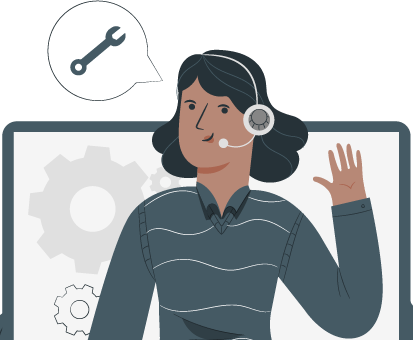
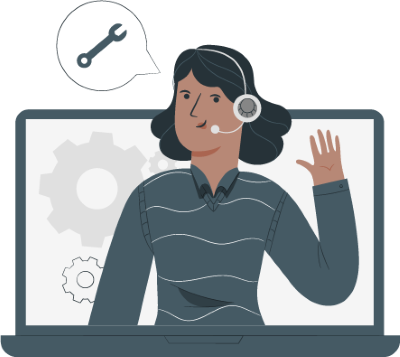
Alteração page suporte

diff --git a/index.html b/index.html
@@ -25,7 +25,8 @@
         <nav class="navbar navbar-expand-md navbar-dark bgdark">
             <div class="container col-10">
                 <a href="index.html" class="navbar-brand"><img src="img/logo.png" alt="GoodConnection" class="logotipo"></a>
-                <button class="navbar-toggler" data-toggle="collapse" data-target='#nav-principal' aria-expanded="false" aria-label="Toggle navigation">
+                <button class="navbar-toggler" data-toggle="collapse" data-target='#nav-principal' aria-expanded="false"
+                    aria-label="Toggle navigation">
                     <span class="navbar-toggler-icon"></span>
                 </button>
                 <div class="collapse navbar-collapse text-right" style="font-weight: 600;;" id="nav-principal">
@@ -48,7 +49,7 @@
         </nav>
     </header>
     <!-- Inicio - Banner -->
-    <section class="banner mx-auto">
+    <section class="banner mx-auto mb-5">
         <img src="img/bannernet.png" alt="banner good conection" class="img-fluid w-100 bannerimg">
     </section>
     <!-- Sobre a Empresa -->
@@ -172,10 +173,29 @@
                 <!-- SUPORTE -->
                 <section class="suporte">
                     <h1 id="titulo_" class="text-center text-uppercase pt-3 " style="color:#1a3b66;">suporte</h1>
-                    <div class="container col-12">
-                        <div class="row d-flex justify-content-center">
-                            <div class="col-lg-5 text-center ">
-                                <img src="img/Suporte.png " alt="Suporte GoodConnection" class="img-fluid mx-auto d-block mb-3 ">
+                    <div class="container col-10">
+                        <div class="row">
+                            <div class="col-lg-6 text-center mx-auto">
+                                <img src="img/suporte.png" alt="Suporte GoodConnection" class="img-fluid">
+                            </div>
+                            <div class="col-lg-6 d-flex align-items-center mt-4 mt-lg-5">
+                                <div class="div text-center mt-lg-5 mx-auto">
+                                    <h2 class="titulo_"><i class="far fa-check-circle text-success"></i> Suporte Online 24h </h2>
+                                    <h2 class="titulo_"><i class="far fa-check-circle text-success"></i> Chat & Whatsapp<span style="color: white;">...</span></h2>
+                                    <h2 class="titulo_"><i class="far fa-check-circle text-success"></i> Suporte Técnico<span style="color: white;">..... </span></h2>
+                                    <h2 class="titulo_"><i class="far fa-check-circle text-success"></i> Atedimento Rápido </h2>
+                                  
+
+                                </div>
+                            </div>
+                        </div>
+
+
+
+
+                        <!-- <div class="row ">
+                            <div class="col-lg-6 text-center ">
+                                <img src="img/Suporte.png " alt="Suporte GoodConnection" class="img-fluid mx-auto d-block mb-3">
                                 <h5 class="titulo_">Serviço 24h <i class="far fa-check-circle text-success text-right"></i></h5>
                                 <h5 class="titulo_">Suporte Online <i class="far fa-check-circle text-success"></i></h5>
                                 <h5 class="titulo_">Chat & Whatsapp <i class="far fa-check-circle text-success"></i></h5>
@@ -183,14 +203,15 @@
                                 </h5>
                                 <hr>
                             </div>
-                            <div class="col-lg-5  text-center ">
+                            <div class="col-lg-6  text-center ">
                                 <img src="img/Suporte2.png" alt="Suporte GoodConnection" class="img-fluid mx-auto d-block mb-3 ">
-                                <h5 class="titulo_">Suporte Técnico <i class="far fa-check-circle text-success text-right"></i></h5>
+                                <h5 class="titulo_">Suporte Técnico <i class="far fa-check-circle text-success text-right"></i>
+                                </h5>
                                 <h5 class="titulo_">Rápido & Eficiente <i class="far fa-check-circle text-success"></i></h5>
                                 <h5 class="titulo_">Melhores Técnicos <i class="far fa-check-circle text-success"></i></h5>
                                 <h5 class="titulo_">Qualidade e Segurança <i class="far fa-check-circle text-success"></i></h5>
                             </div>
-                        </div>
+                        </div> -->
                     </div>
                 </section>
                 <!-- ANCORA CONTATO -->
@@ -216,7 +237,7 @@
                                             placeholder="Digite seu nome aqui" required>
                                     </div>
                                     <div class="form-group">
-                                        <label for="exampleInputEmail1" class="font-weight-bold">Endereço de email</label>
+                                        <label for="exampleInputEmail1" class="font-weight-bold">Endereço de email</label>              
                                         <input type="email" class="form-control" id="exampleInputEmail1"
                                             aria-describedby="emailHelp" placeholder="Digite seu email aqui" required>
                                     </div>
@@ -234,7 +255,7 @@
                                     <div class="form-group">
                                         <label for="exampleMensagem" class="font-weight-bold">Escreva sua mensagem</label>
                                         <br>
-                                        <textarea name="Mensagem" id="exampleMensagem" cols="60" rows="5"
+                                        <textarea name="Mensagem" id="exampleMensagem" cols="35" rows="5"
                                             placeholder="Digite sua mensagem aqui" required></textarea>
                                     </div>
 
@@ -245,9 +266,9 @@
                                 <h1 class="titulo_white pl-4 ">Localização</h1>
                                 <p class="pl-4">Endereço:</p>
                                 <p class="pl-4">Aberto das 8h as 18h - Segunda a Sábado.</p>
-                                <iframe class="pl-4 mb-3"
+                                <iframe class=" mb-3 maps"
                                     src="https://www.google.com/maps/embed?pb=!1m18!1m12!1m3!1d914.2606394055078!2d-46.68645207082501!3d-23.566914969794066!2m3!1f0!2f0!3f0!3m2!1i1024!2i768!4f13.1!3m3!1m2!1s0x94ce5775e94508af%3A0x6e44c011efe14f20!2sR.%20dos%20Pinheiros%2C%20772-890%20-%20Pinheiros%2C%20S%C3%A3o%20Paulo%20-%20SP%2C%2005422-001!5e0!3m2!1spt-BR!2sbr!4v1586442750083!5m2!1spt-BR!2sbr"
-                                    width="400" height="300" frameborder="0" style="border:0;" allowfullscreen=""
+                                    width="300" height="200" frameborder="0" style="border:0;" allowfullscreen=""
                                     aria-hidden="false" tabindex="0"></iframe>
                             </div>
                         </div>
@@ -274,7 +295,7 @@
                         </div>
                     </div>
                 </footer>
-
+                <!-- 
                 <script src="https://unpkg.com/scrollreveal@4.0.0/dist/scrollreveal.min.js"></script>
 
     <script>
@@ -286,8 +307,17 @@
         sr.reveal('.suporte ');
         sr.reveal('.contato ');
      
-    </script>
+    </script> -->
+                <script src="https://unpkg.com/scrollreveal"></script>
 
+                <script>
+
+                    ScrollReveal().reveal('.about', { delay: 600});
+                    ScrollReveal().reveal('.planos', { delay: 600 });
+                    ScrollReveal().reveal('.vantagens', { delay: 600 });
+                    ScrollReveal().reveal('.suporte', { delay: 600 });
+                    ScrollReveal().reveal('.contato', { delay: 600 });
+                </script>
 
 
 

diff --git a/css/style.css b/css/style.css
@@ -139,4 +139,11 @@ p {
         font-weight: 700;
         font-size: 1.2em;
     }
+    .titulo_ {
+        font-family: 'Roboto', sans-serif;
+        font-weight: 700;
+        color: #1a3b66;
+        font-size: 1.5em;
+    }
+    
 }
